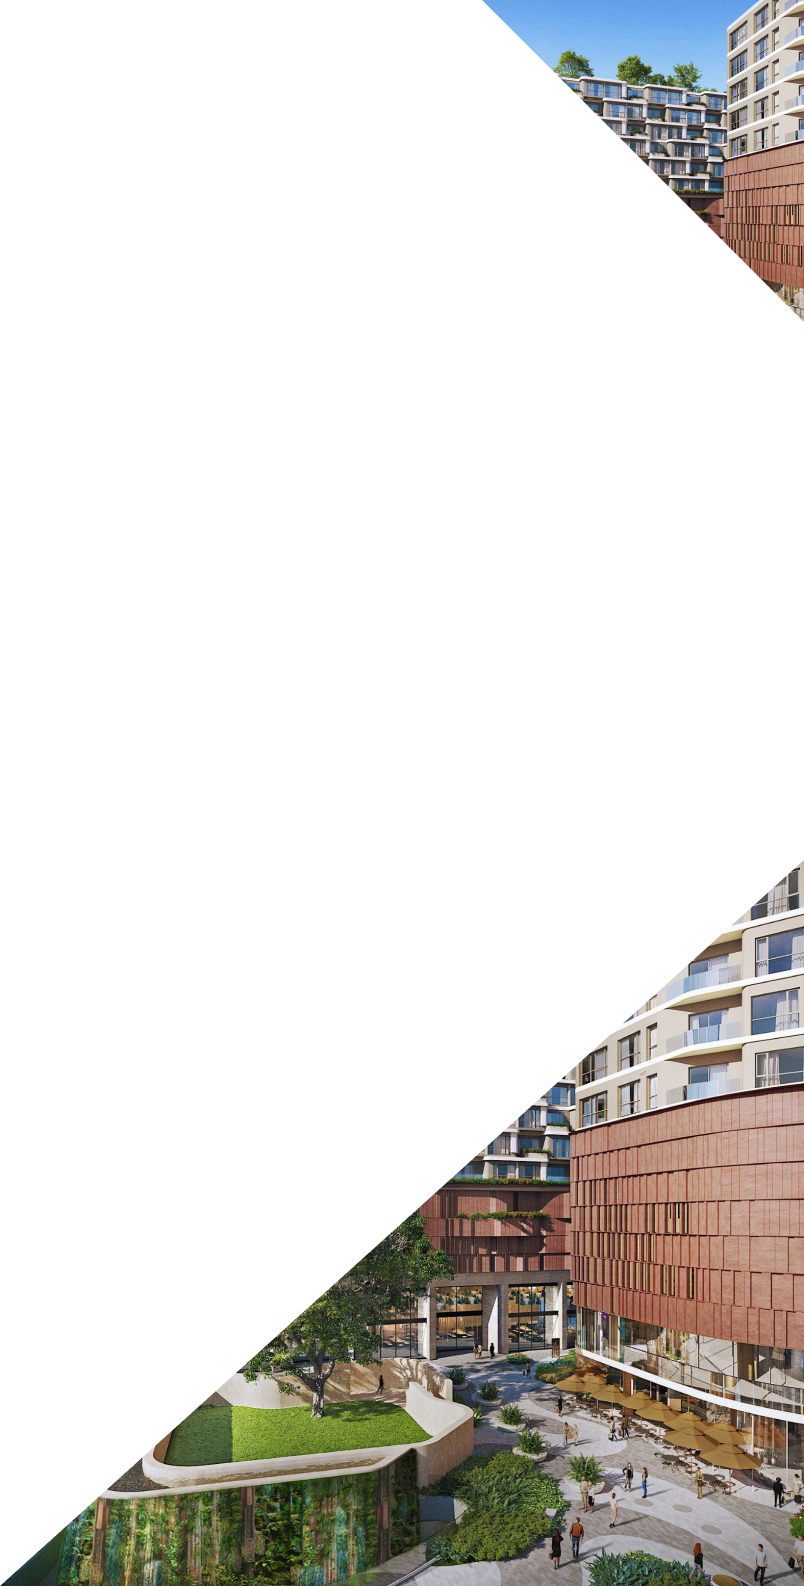
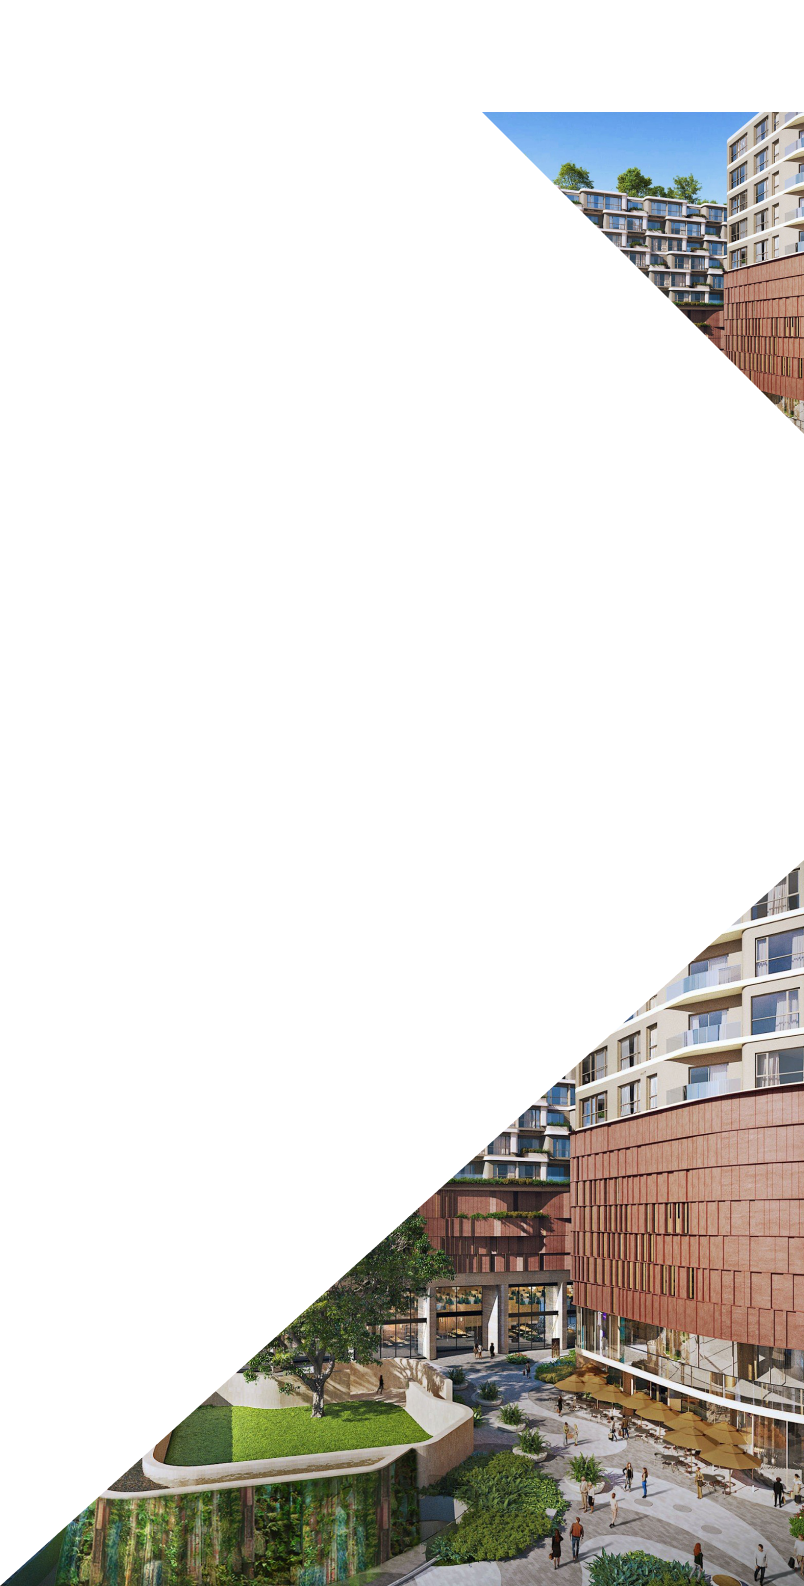
update_feedback_mobile

Changed region(s): [[0.5908, 0.0, 1.0, 0.2781]]

diff --git a/public/css/parallax-section.css b/public/css/parallax-section.css
@@ -198,15 +198,11 @@
         font-size: 0.5em;
     }
     .parallax__border--variant-2 .parallax__disc {
-        flex-direction: column;
-        justify-content: center;
-        align-items: center;
+        left: auto;
+        margin: 0 auto;
+        margin-right: 5%;
     }
-    .parallax__disc,
-    .parallax__border--variant-2 .parallax__disc {
-        flex-direction: column;
-        justify-content: center;
-        align-items: center;
+    .parallax__border--variant-1 .parallax__disc {
         margin: 0;
     }
     .parallax__content,
@@ -229,6 +225,10 @@
         position: relative;
         background-color: unset;
     }
+    .parallax--variant-4 .parallax__border--variant-2 .parallax__disc {
+        left: auto;
+        margin: 0 auto;
+    }
     .parallax__border--variant-2 .parallax__triangle{
         background-color: none;
         background-color: unset;
@@ -242,6 +242,38 @@
     .parallax__triangle {
         font-size: 1.5em;
     }
+    /* Modifier: parallax--variant-1 */
+.parallax--variant-1 {
+    background-image: url(../img/highlight-page/parallax-section/bg-highlight-1-small.png);
+    background-position: right;
+    background-position-y: 20px;
+    background-repeat: no-repeat;
+    background-size: contain;
+}
+
+/* Modifier: parallax--variant-2 */
+.parallax--variant-2 {
+    background-image: url(../img/highlight-page/parallax-section/bg-highlight-2-small.png);
+    background-position: left;
+    background-position-y: 20px;
+    background-repeat: no-repeat;
+    background-size: contain;
+}
+/* Modifier: parallax--variant-3 */
+.parallax--variant-3 {
+    background-image: url(../img/highlight-page/parallax-section/bg-highlight-3-small.png);
+    background-position: right;
+    background-position-y: 20px;
+    background-repeat: no-repeat;
+    background-size: contain;}
+/* Modifier: parallax--variant-4 */
+.parallax--variant-4 {
+    background-image: url(../img/highlight-page/parallax-section/bg-highlight-4-small.png);
+    background-position: left;
+    background-position-y: 20px;
+    background-repeat: no-repeat;
+    background-size: contain;
+}
 }
 @media (min-width: 576px) and (max-width: 768px){
     .parallax__content {

diff --git a/public/css/about-us-hanoicentre.css b/public/css/about-us-hanoicentre.css
@@ -91,6 +91,7 @@
     line-height: 1.3;
     letter-spacing: -0.02em;
     text-align: justify;
+    padding-left: 2em;
 }
 
 /* Reponsive ABOUT-US HANOI CENTRE */
@@ -107,16 +108,13 @@
     }
     .hanoi-centre {
         display: block;
-        width: 100%;
-        transform: translate(0%, -128%);
+        width: 70%;
+        transform: translate(-50%, -140%);
         top: auto;
         right: auto;
-        left: auto;
         font-size: 0.55rem;
-        padding: 0 5em;
-    }
-    .hanoi-centre__description {
-        padding-left: 2em;
+        margin: 0 auto;
+        left: 50%;
     }
 }
 @media (min-width: 576px) and (max-width: 768px){
@@ -132,18 +130,17 @@
     }
     .hanoi-centre {
         display: block;
-        width: 70%;
-        transform: translate(40%, -125%);
+        width: 40%;
+        transform: translate(-50%, -125%);
         top: auto;
         right: auto;
-        left: auto;
-        font-size: 1rem;
-        padding: 0 17em;
+        left: 72%;
+        font-size: 0.75rem;
     }
 }
 @media only screen and (min-width: 769px) and (max-width: 991px){
     .about-us__hanoicentre .bg-mode {
-        font-size: 0.6em;
+        font-size: 0.6rem;
     }
     .hanoi-centre {
         font-size: 0.95rem;
@@ -151,10 +148,10 @@
 }
 @media only screen and (min-width: 992px) and (max-width: 1199px){
     .about-us__hanoicentre .bg-mode {
-        font-size: 0.6em;
+        font-size: 0.6rem;
     }
     .hanoi-centre {
-        font-size: 0.9rem;
+        font-size: 0.75rem;
     }
 }
 @media only screen and (min-width: 1200px) and (max-width: 1399px){

diff --git a/public/css/about-us-our-shoppers.css b/public/css/about-us-our-shoppers.css
@@ -98,7 +98,7 @@
         width: 100%;
         height: 100%;
         background: url('../img/about-us/ourshoppers/triangle-top-left.svg') left top no-repeat, url('../img/about-us/ourshoppers/triangle-bottom-left.svg') left bottom no-repeat, url('../img/about-us/ourshoppers/bg-ourshoppers.jpg') left top no-repeat;
-        background-size: 22.1em, 45.1em, 640px;
+        background-size: 22.1em, 45.1em, 820px;
         font-size: 0.7rem;
     }
     .about-us__ourshoppers .bg-mode {
@@ -106,16 +106,12 @@
     }
     .our-shoppers {
         display: block;
-        width: 100%;
-        transform: translate(0%, -130%);
+        width: 64%;
+        transform: translate(-50%, -121%);
         top: auto;
         right: auto;
-        left: auto;
-        font-size: 0.6em;
-        padding: 0 5em;
-    }
-    .our-shoppers__description {
-        padding-left: 2em;
+        left: 50%;
+        font-size: 0.6rem;
     }
 }
 @media (min-width: 576px) and (max-width: 768px){
@@ -153,10 +149,10 @@
         font-size: 1.1em;
     }
     .our-shoppers {
-        font-size: 1rem;
+        font-size: 0.75rem;
         display: block;
         width: 40%;
-        transform: translate(6%, -30%);
+        transform: translate(6%, -44%);
         top: 50%;
         position: absolute;
         right: 0;

diff --git a/public/css/footer.css b/public/css/footer.css
@@ -7,6 +7,7 @@ footer {
     padding: 5em 0 5em;
     background: var(--gray-2);
     font-size: 0.9em;
+    overflow: hidden;
 }
 .footer__top {
     width: 100%;
@@ -133,26 +134,29 @@ footer {
 /* Reponsive - Footer */
 @media (max-width: 575px){
     .footer {
-        font-size: 0.6em;
+        padding: 5em 2em 5em;
+        font-size: 1rem;
     }
     .footer__top {
         flex-direction: column;
     }
     .footer__left {
         font-size: 0.85em;
-        flex-direction: row;
+        flex-direction: column;
+        gap: 5em;
     }
     .contact-us__disc {
         font-size: 0.8em;
         padding-top: 5em;
     }
     .contact-us__item {
-        margin: 3em 0;
+        margin: 5em 0;
     }
     .keppel {
         display: flex;
         position: relative;
         justify-content: center;
+        font-size: 0.7em;
     }
     .contact-us__item:last-child {
         margin-bottom: 3em;
@@ -163,8 +167,7 @@ footer {
         line-height: 3;
     }
     .logo-keppel {
-        width: 18.2em;
-        aspect-ratio: 122 / 40;
+        width: 26.2em;
     }
     .copy-right span {
         font-size: 1.7em;

diff --git a/public/css/about-us.css b/public/css/about-us.css
@@ -493,7 +493,7 @@
         width: 7.6em;
     }
     .group-pagination-au {
-        margin-top: 1rem;
+        margin-top: 4rem;
         width: 100%;
         position: relative;
         display: flex;
@@ -533,16 +533,17 @@
         width: 90%;
     }
 
-    .about-us .swiper-wrapper {
+    /* .about-us .swiper-wrapper {
         padding: 2em 0;
-    }
+    } */
     .title-triangle {
         display: block;
         font-family: 'SVN-WylieVoigen';
-        font-size: 3.2em;
+        font-size: 3.2rem;
         font-weight: 400;
         line-height: 1;
         text-align: center;
+        margin-top: 1em;
     }
     .triangle-right.shape-3{
         transform: rotate(-55deg);
@@ -629,6 +630,12 @@
     .group-shape-2 .triangle-2,
     .group-shape-3 .triangle-2 {
         width: 60em;
+    }
+    .about-us .close-btn {
+        top: auto;
+        right: 30px;
+        bottom: 48px;
+        font-size: 0.9em;
     }
 }
 @media (min-width: 576px) and (max-width: 768px){

diff --git a/public/css/about-us-complex.css b/public/css/about-us-complex.css
@@ -107,8 +107,7 @@
         width: 100%;
         height: 100%;
         background: url('../img/about-us/complex-factsheet/triangle-top-right.svg') right top no-repeat, url('../img/about-us/complex-factsheet/triangle-bottom-right.svg') right bottom no-repeat, url('../img/about-us/complex-factsheet/bg-comlex.png') right top no-repeat;
-        background-size: 22.1em, 45.1em, 350px;
-        font-size: 0.7em;
+        background-size: 22.1em, 45.1em, 480px;
     }
     .about-us__complex .bg-mode {
         font-size: 0.4em;
@@ -141,14 +140,13 @@
     }
     .complex {
         display: flex;
-        width: 100%;
+        width: fit-content;
         transform: translate(0%, -133%);
         top: auto;
         right: auto;
-        left: auto;
-        font-size: 1rem;
-        padding: 0 17em;
+        left: 10%;
         gap: 3em;
+        font-size: 0.65rem;
     }
 }
 @media only screen and (min-width: 769px) and (max-width: 991px){

diff --git a/public/js/apps.js b/public/js/apps.js
@@ -287,7 +287,6 @@ document.addEventListener("DOMContentLoaded", function (event) {
       e.preventDefault(); // Prevent default anchor behavior
       const slideIndex = parseInt(button.getAttribute('data-slide')); // Get slide index from data attribute
       
-      console.log(slideIndex, button, e.currentTaget);
       swiperab.slideToLoop(slideIndex); // Navigate to the corresponding slide
     });
   });
